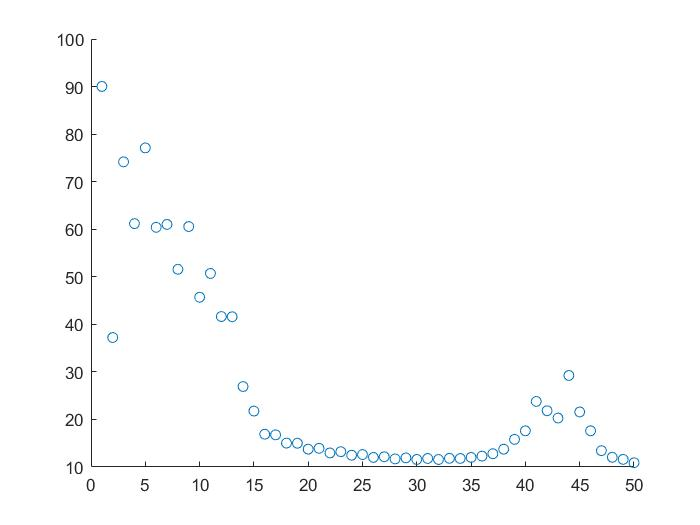
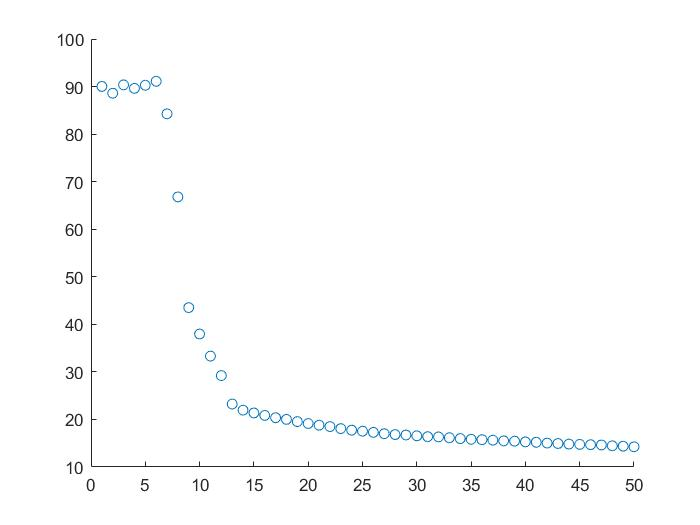
Fixed softmax and logistic

diff --git a/mnist_softmax.m b/mnist_softmax.m
@@ -22,20 +22,20 @@ for i=1:10
 end
 
 w = ones(785, 10);
-alpha = .01;
+alpha = .05;
 numEpochs = 50;
 errorRates = zeros(50, 1);
 for i=1:numEpochs
-    g0 = w(:, 1)' * images;
-    g1 = w(:, 2)' * images;
-    g2 = w(:, 3)' * images;
-    g3 = w(:, 4)' * images;
-    g4 = w(:, 5)' * images;
-    g5 = w(:, 6)' * images;
-    g6 = w(:, 7)' * images;
-    g7 = w(:, 8)' * images;
-    g8 = w(:, 9)' * images;
-    g9 = w(:, 10)' * images;
+    g0 = exp(w(:, 1)' * images);
+    g1 = exp(w(:, 2)' * images);
+    g2 = exp(w(:, 3)' * images);
+    g3 = exp(w(:, 4)' * images);
+    g4 = exp(w(:, 5)' * images);
+    g5 = exp(w(:, 6)' * images);
+    g6 = exp(w(:, 7)' * images);
+    g7 = exp(w(:, 8)' * images);
+    g8 = exp(w(:, 9)' * images);
+    g9 = exp(w(:, 10)' * images);
     gs = g0 + g1 + g2 + g3 + g4 + g5 + g6 + g7 + g8 + g9;
     h0 = g0 ./ gs;
     h1 = g1 ./ gs;
@@ -62,7 +62,7 @@ for i=1:numEpochs
         c = predictions1(:, j);
         c = c';
         gradient = sum(images .* c, 2);
-        w(:, j) = w(:, j) + alpha * gradient;
+        w(:, j) = w(:, j) - alpha * gradient;
     end
 end
 
@@ -72,16 +72,16 @@ scatter([1:50], errorRates);
 testcorrect = 0;
 for i=1:2000
     input = testimages(:, i);
-    g0 = w(:, 1)' * input;
-    g1 = w(:, 2)' * input;
-    g2 = w(:, 3)' * input;
-    g3 = w(:, 4)' * input;
-    g4 = w(:, 5)' * input;
-    g5 = w(:, 6)' * input;
-    g6 = w(:, 7)' * input;
-    g7 = w(:, 8)' * input;
-    g8 = w(:, 9)' * input;
-    g9 = w(:, 10)' * input;
+    g0 = exp(w(:, 1)' * input);
+    g1 = exp(w(:, 2)' * input);
+    g2 = exp(w(:, 3)' * input);
+    g3 = exp(w(:, 4)' * input);
+    g4 = exp(w(:, 5)' * input);
+    g5 = exp(w(:, 6)' * input);
+    g6 = exp(w(:, 7)' * input);
+    g7 = exp(w(:, 8)' * input);
+    g8 = exp(w(:, 9)' * input);
+    g9 = exp(w(:, 10)' * input);
     gs = g0 + g1 + g2 + g3 + g4 + g5 + g6 + g7 + g8 + g9;
     h0 = g0 / gs;
     h1 = g1 / gs;
